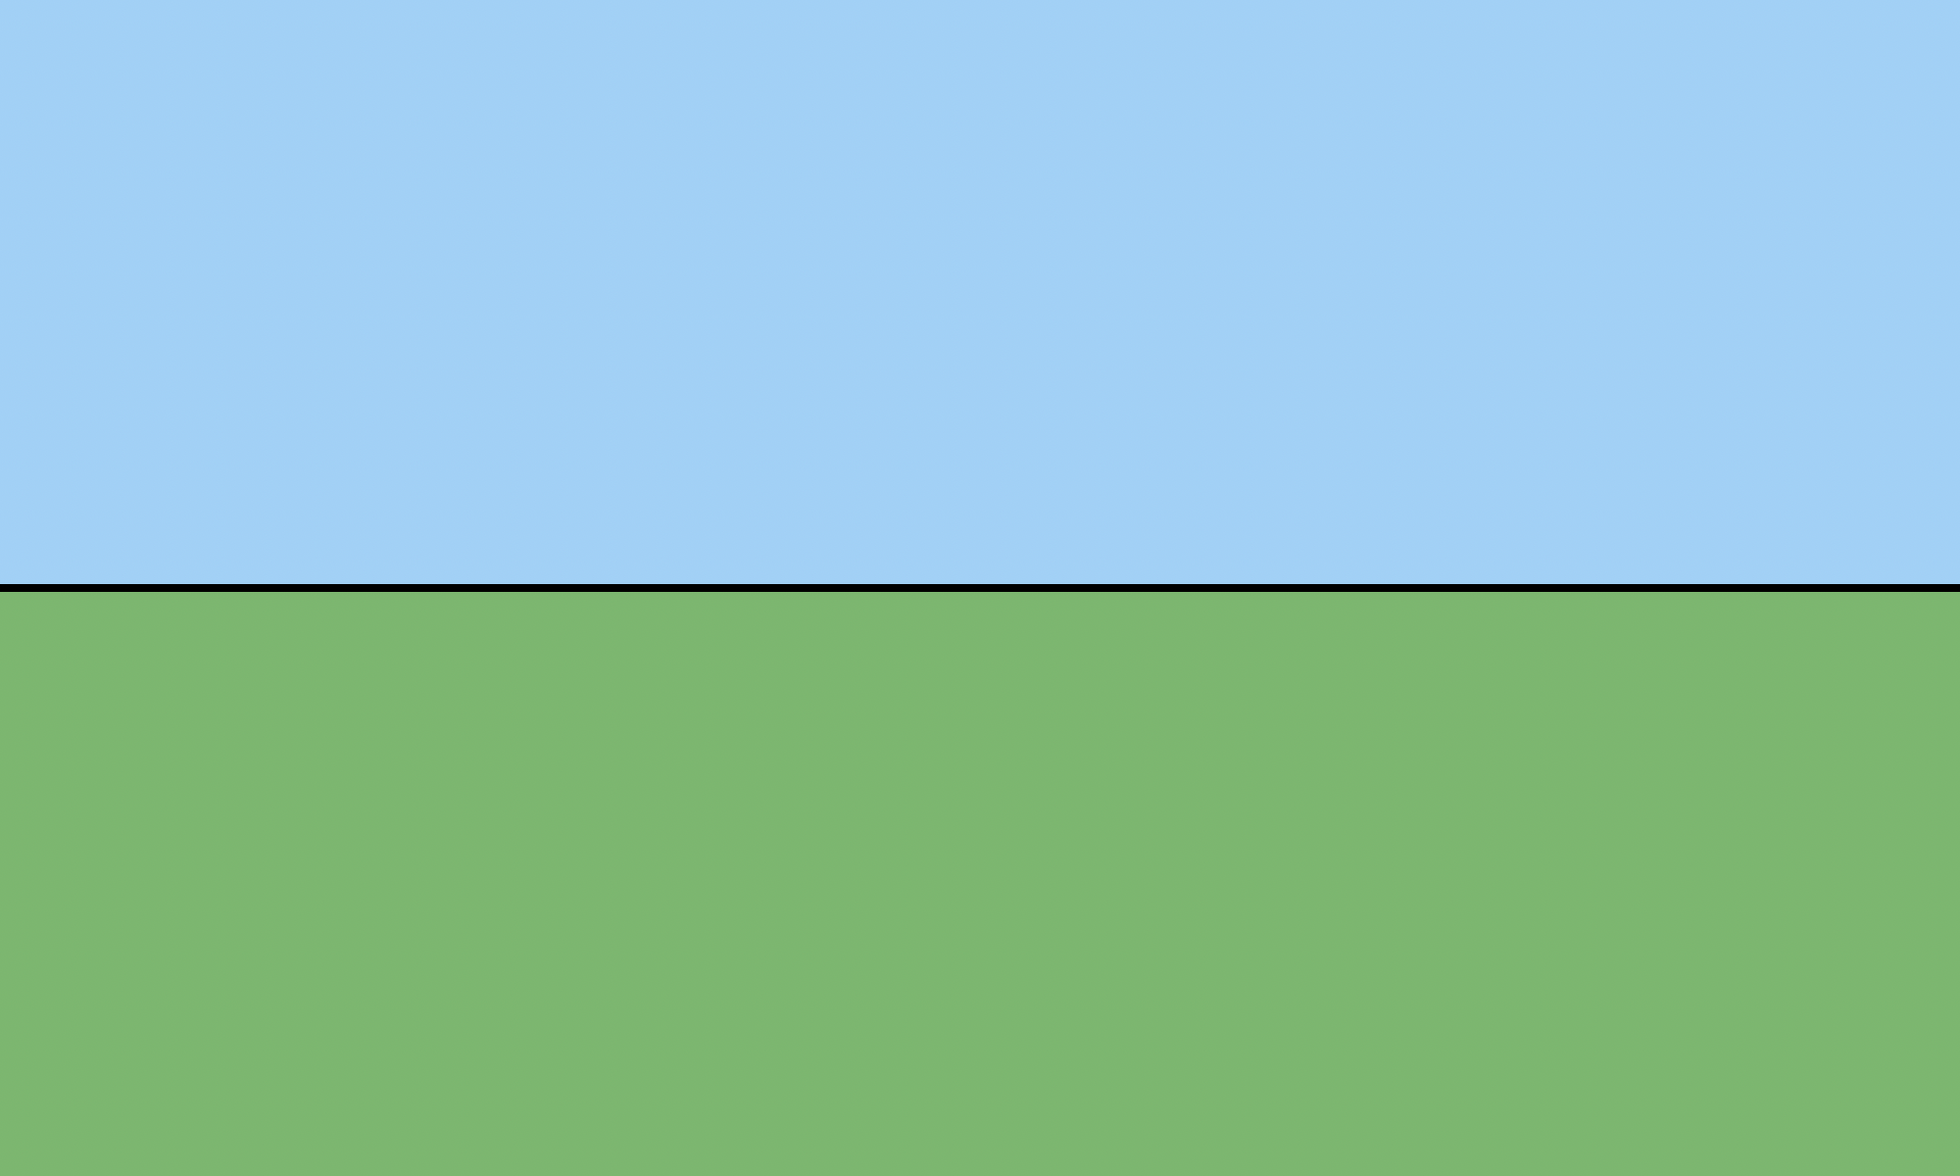
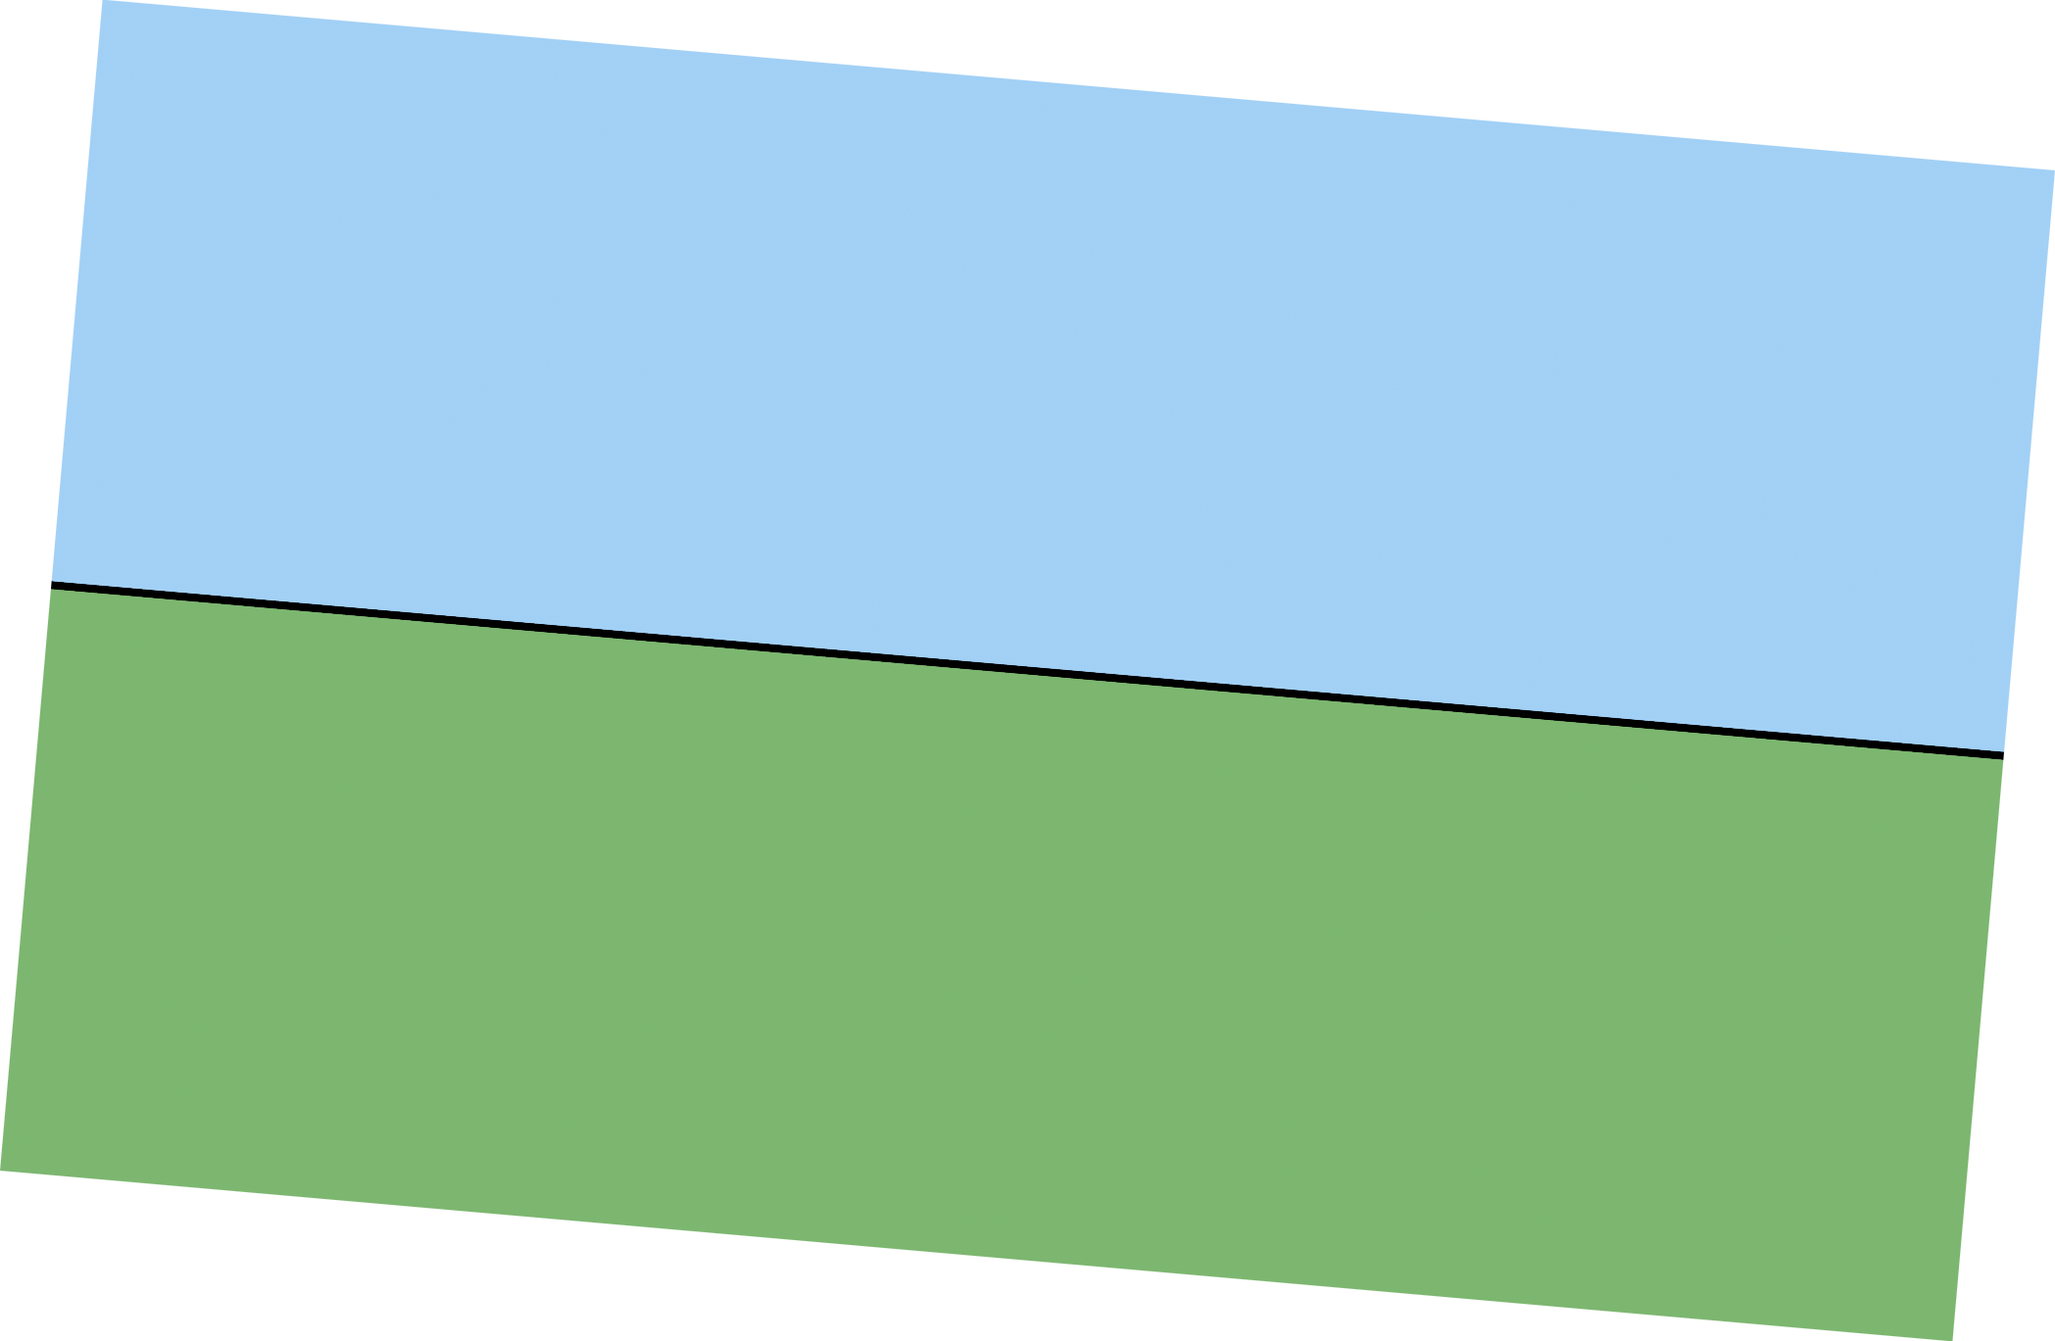
fix vision mode runtime stability

Changed region(s): [[0.0, 0.0, 1.0, 1.0]]

diff --git a/swift-core/Sources/AppleIntelCore/VisionExtHandler.swift b/swift-core/Sources/AppleIntelCore/VisionExtHandler.swift
@@ -32,10 +32,6 @@ final class ContinuationResumer<Success: Sendable>: @unchecked Sendable {
     }
 }
 
-func configureVisionRequest(_ request: VNRequest) {
-    request.usesCPUOnly = true
-}
-
 struct VisionExtHandler: Sendable {
 
     private func loadImageData(base64: String?, path: String?) throws -> Data {
@@ -54,6 +50,13 @@ struct VisionExtHandler: Sendable {
         VNImageRequestHandler(data: data, options: [:])
     }
 
+    private func imageHandler(base64: String?, path: String?) throws -> VNImageRequestHandler {
+        if let p = path {
+            return VNImageRequestHandler(url: URL(fileURLWithPath: p), options: [:])
+        }
+        return imageHandler(data: try loadImageData(base64: base64, path: nil))
+    }
+
     private func loadModel(from path: String) throws -> MLModel {
         let url = URL(fileURLWithPath: path)
         if url.pathExtension == "mlmodelc" {
@@ -65,10 +68,9 @@ struct VisionExtHandler: Sendable {
 
     // ── 圖片分類：這張圖片裡有什麼？ ─────────────────────────────
     func classifyImage(base64: String? = nil, path: String? = nil) async throws -> [(label: String, confidence: Float)] {
-        let imageData = try loadImageData(base64: base64, path: path)
+        let handler = try imageHandler(base64: base64, path: path)
         return try await withCheckedThrowingContinuation { continuation in
             let resumer = ContinuationResumer(continuation)
-            let handler = VNImageRequestHandler(data: imageData, options: [:])
             let request = VNClassifyImageRequest { req, error in
                 if let error = error { resumer.resume(throwing: error); return }
                 let results = (req.results as? [VNClassificationObservation] ?? [])
@@ -77,7 +79,6 @@ struct VisionExtHandler: Sendable {
                     .map { (label: $0.identifier, confidence: $0.confidence) }
                 resumer.resume(returning: Array(results))
             }
-            configureVisionRequest(request)
             do { try handler.perform([request]) }
             catch { resumer.resume(throwing: error) }
         }
@@ -90,10 +91,9 @@ struct VisionExtHandler: Sendable {
     }
 
     func detectFaces(base64: String? = nil, path: String? = nil) async throws -> FaceResult {
-        let imageData = try loadImageData(base64: base64, path: path)
+        let handler = try imageHandler(base64: base64, path: path)
         return try await withCheckedThrowingContinuation { continuation in
             let resumer = ContinuationResumer(continuation)
-            let handler = VNImageRequestHandler(data: imageData, options: [:])
             let request = VNDetectFaceRectanglesRequest { req, error in
                 if let error = error { resumer.resume(throwing: error); return }
                 let observations = req.results as? [VNFaceObservation] ?? []
@@ -109,7 +109,6 @@ struct VisionExtHandler: Sendable {
                 }
                 resumer.resume(returning: FaceResult(count: faces.count, faces: faces))
             }
-            configureVisionRequest(request)
             do { try handler.perform([request]) }
             catch { resumer.resume(throwing: error) }
         }
@@ -122,10 +121,9 @@ struct VisionExtHandler: Sendable {
     }
 
     func detectBarcodes(base64: String? = nil, path: String? = nil) async throws -> [BarcodeResult] {
-        let imageData = try loadImageData(base64: base64, path: path)
+        let handler = try imageHandler(base64: base64, path: path)
         return try await withCheckedThrowingContinuation { continuation in
             let resumer = ContinuationResumer(continuation)
-            let handler = imageHandler(data: imageData)
             let request = VNDetectBarcodesRequest { req, error in
                 if let error = error { resumer.resume(throwing: error); return }
                 let results = (req.results as? [VNBarcodeObservation] ?? [])
@@ -138,7 +136,6 @@ struct VisionExtHandler: Sendable {
                     }
                 resumer.resume(returning: results)
             }
-            configureVisionRequest(request)
             do { try handler.perform([request]) }
             catch { resumer.resume(throwing: error) }
         }
@@ -167,7 +164,6 @@ struct VisionExtHandler: Sendable {
                 }
                 resumer.resume(returning: result)
             }
-            configureVisionRequest(request)
             do { try handler.perform([request]) }
             catch { resumer.resume(throwing: error) }
         }
@@ -208,7 +204,6 @@ struct VisionExtHandler: Sendable {
                 resumer.resume(returning: results)
             }
             request.imageCropAndScaleOption = .scaleFill
-            configureVisionRequest(request)
             do { try handler.perform([request]) }
             catch { resumer.resume(throwing: error) }
         }
@@ -222,10 +217,9 @@ struct VisionExtHandler: Sendable {
     }
 
     func detectContours(base64: String? = nil, path: String? = nil) async throws -> ContourResult {
-        let imageData = try loadImageData(base64: base64, path: path)
+        let handler = try imageHandler(base64: base64, path: path)
         return try await withCheckedThrowingContinuation { continuation in
             let resumer = ContinuationResumer(continuation)
-            let handler = imageHandler(data: imageData)
             let request = VNDetectContoursRequest { req, error in
                 if let error = error { resumer.resume(throwing: error); return }
                 guard let obs = (req.results as? [VNContoursObservation])?.first else {
@@ -250,7 +244,6 @@ struct VisionExtHandler: Sendable {
             request.contrastAdjustment = 1.0
             request.detectsDarkOnLight = true
             request.maximumImageDimension = 1024
-            configureVisionRequest(request)
             do { try handler.perform([request]) }
             catch { resumer.resume(throwing: error) }
         }
@@ -263,10 +256,9 @@ struct VisionExtHandler: Sendable {
     }
 
     func detectTextRegions(base64: String? = nil, path: String? = nil) async throws -> TextRegionResult {
-        let imageData = try loadImageData(base64: base64, path: path)
+        let handler = try imageHandler(base64: base64, path: path)
         return try await withCheckedThrowingContinuation { continuation in
             let resumer = ContinuationResumer(continuation)
-            let handler = imageHandler(data: imageData)
             let request = VNDetectTextRectanglesRequest { req, error in
                 if let error = error { resumer.resume(throwing: error); return }
                 let observations = req.results as? [VNTextObservation] ?? []
@@ -283,7 +275,6 @@ struct VisionExtHandler: Sendable {
                 resumer.resume(returning: TextRegionResult(count: regions.count, regions: regions))
             }
             request.reportCharacterBoxes = true
-            configureVisionRequest(request)
             do { try handler.perform([request]) }
             catch { resumer.resume(throwing: error) }
         }
@@ -296,10 +287,9 @@ struct VisionExtHandler: Sendable {
     }
 
     func detectFaceLandmarks(base64: String? = nil, path: String? = nil) async throws -> FaceLandmarkResult {
-        let imageData = try loadImageData(base64: base64, path: path)
+        let handler = try imageHandler(base64: base64, path: path)
         return try await withCheckedThrowingContinuation { continuation in
             let resumer = ContinuationResumer(continuation)
-            let handler = imageHandler(data: imageData)
             let request = VNDetectFaceLandmarksRequest { req, error in
                 if let error = error { resumer.resume(throwing: error); return }
                 let observations = req.results as? [VNFaceObservation] ?? []
@@ -323,7 +313,6 @@ struct VisionExtHandler: Sendable {
                 }
                 resumer.resume(returning: FaceLandmarkResult(count: summaries.count, summaries: summaries))
             }
-            configureVisionRequest(request)
             do { try handler.perform([request]) }
             catch { resumer.resume(throwing: error) }
         }
@@ -336,10 +325,9 @@ struct VisionExtHandler: Sendable {
     }
 
     func detectHumanBodies(base64: String? = nil, path: String? = nil, upperBodyOnly: Bool = false) async throws -> HumanBodyResult {
-        let imageData = try loadImageData(base64: base64, path: path)
+        let handler = try imageHandler(base64: base64, path: path)
         return try await withCheckedThrowingContinuation { continuation in
             let resumer = ContinuationResumer(continuation)
-            let handler = imageHandler(data: imageData)
             let request = VNDetectHumanRectanglesRequest { req, error in
                 if let error = error { resumer.resume(throwing: error); return }
                 let observations = req.results as? [VNHumanObservation] ?? []
@@ -356,7 +344,6 @@ struct VisionExtHandler: Sendable {
                 resumer.resume(returning: HumanBodyResult(count: bodies.count, bodies: bodies))
             }
             request.upperBodyOnly = upperBodyOnly
-            configureVisionRequest(request)
             do { try handler.perform([request]) }
             catch { resumer.resume(throwing: error) }
         }
@@ -384,7 +371,6 @@ struct VisionExtHandler: Sendable {
                     isUtility: obs.isUtility
                 ))
             }
-            configureVisionRequest(request)
             do { try handler.perform([request]) }
             catch { resumer.resume(throwing: error) }
         }
@@ -408,7 +394,6 @@ struct VisionExtHandler: Sendable {
                     description: "偵測到 \(count) 個前景物件實例（可個別產生去背遮罩）"
                 ))
             }
-            configureVisionRequest(request)
             do { try handler.perform([request]) }
             catch { resumer.resume(throwing: error) }
         }
@@ -442,7 +427,6 @@ struct VisionExtHandler: Sendable {
                     description: "光流場 \(w)×\(h) 像素，每像素含 (dx,dy) 移動向量（2 通道 float32）"
                 ))
             }
-            configureVisionRequest(request)
             do { try handler.perform([request]) }
             catch { resumer.resume(throwing: error) }
         }
@@ -455,10 +439,9 @@ struct VisionExtHandler: Sendable {
     }
 
     func detectHorizon(base64: String? = nil, path: String? = nil) async throws -> HorizonResult {
-        let imageData = try loadImageData(base64: base64, path: path)
+        let handler = try imageHandler(base64: base64, path: path)
         return try await withCheckedThrowingContinuation { continuation in
             let resumer = ContinuationResumer(continuation)
-            let handler = imageHandler(data: imageData)
             let request = VNDetectHorizonRequest { req, error in
                 if let error = error { resumer.resume(throwing: error); return }
                 guard let obs = (req.results as? [VNHorizonObservation])?.first else {
@@ -472,7 +455,6 @@ struct VisionExtHandler: Sendable {
                 )
                 resumer.resume(returning: HorizonResult(angle: Double(obs.angle), transform: transform))
             }
-            configureVisionRequest(request)
             do { try handler.perform([request]) }
             catch { resumer.resume(throwing: error) }
         }

diff --git a/swift-core/Sources/AppleIntelCore/VisionPoseHandler.swift b/swift-core/Sources/AppleIntelCore/VisionPoseHandler.swift
@@ -8,8 +8,7 @@ import simd
 struct VisionPoseHandler: Sendable {
 
     private func imageHandler(path: String) throws -> VNImageRequestHandler {
-        let data = try Data(contentsOf: URL(fileURLWithPath: path))
-        return VNImageRequestHandler(data: data, options: [:])
+        VNImageRequestHandler(url: URL(fileURLWithPath: path), options: [:])
     }
 
     // ── 人體姿態偵測（Body Pose）────────────────────────────
@@ -46,7 +45,6 @@ struct VisionPoseHandler: Sendable {
                     }
                     resumer.resume(returning: results)
                 }
-                configureVisionRequest(request)
                 try handler.perform([request])
             } catch { resumer.resume(throwing: error) }
         }
@@ -87,7 +85,6 @@ struct VisionPoseHandler: Sendable {
                     resumer.resume(returning: results)
                 }
                 request.maximumHandCount = 2
-                configureVisionRequest(request)
                 try handler.perform([request])
             } catch { resumer.resume(throwing: error) }
         }
@@ -118,7 +115,6 @@ struct VisionPoseHandler: Sendable {
                     }
                     resumer.resume(returning: results)
                 }
-                configureVisionRequest(request)
                 try handler.perform([request])
             } catch { resumer.resume(throwing: error) }
         }
@@ -150,7 +146,6 @@ struct VisionPoseHandler: Sendable {
                     resumer.resume(returning: results)
                 }
                 request.maximumObservations = 10
-                configureVisionRequest(request)
                 try handler.perform([request])
             } catch { resumer.resume(throwing: error) }
         }
@@ -175,7 +170,6 @@ struct VisionPoseHandler: Sendable {
                     }
                     resumer.resume(returning: regions.joined(separator: "；"))
                 }
-                configureVisionRequest(request)
                 try handler.perform([request])
             } catch { resumer.resume(throwing: error) }
         }
@@ -200,7 +194,6 @@ struct VisionPoseHandler: Sendable {
                     resumer.resume(returning: "偵測到人物，遮罩尺寸：\(width)×\(height) 像素")
                 }
                 request.qualityLevel = .balanced
-                configureVisionRequest(request)
                 try handler.perform([request])
             } catch { resumer.resume(throwing: error) }
         }
@@ -221,7 +214,6 @@ struct VisionPoseHandler: Sendable {
                     let bb = obs.boundingBox
                     resumer.resume(returning: String(format: "偵測到文件，位置(%.2f,%.2f) 大小(%.2fx%.2f) 信心%.0f%%", bb.origin.x, bb.origin.y, bb.size.width, bb.size.height, obs.confidence * 100))
                 }
-                configureVisionRequest(request)
                 try handler.perform([request])
             } catch { resumer.resume(throwing: error) }
         }
@@ -229,9 +221,39 @@ struct VisionPoseHandler: Sendable {
 
     // ── 3D 人體姿態偵測（macOS 14+）────────────────────────────
     func detectBodyPose3D(imagePath: String) async throws -> [[String: String]] {
-        throw HandlerError.unavailable(
-            "detect_body_pose_3d 暫時停用：Apple Vision 的 VNDetectHumanBodyPose3DRequest 在此 macOS/Vision runtime 會丟出不可由 Swift do/catch 捕捉的 Objective-C exception，為避免 Swift Core process 崩潰，請改用 mode=\"body_pose\"。"
-        )
+        let joints: [(VNHumanBodyPose3DObservation.JointName, String)] = [
+            (.centerHead, "頭中心"), (.topHead, "頭頂"),
+            (.leftShoulder, "左肩"), (.rightShoulder, "右肩"),
+            (.leftElbow, "左手肘"), (.rightElbow, "右手肘"),
+            (.leftWrist, "左手腕"), (.rightWrist, "右手腕"),
+            (.root, "重心"),
+            (.leftHip, "左髖"), (.rightHip, "右髖"),
+            (.leftKnee, "左膝"), (.rightKnee, "右膝"),
+            (.leftAnkle, "左腳踝"), (.rightAnkle, "右腳踝")
+        ]
+        return try await withCheckedThrowingContinuation { continuation in
+            let resumer = ContinuationResumer(continuation)
+            do {
+                let handler = try imageHandler(path: imagePath)
+                let request = VNDetectHumanBodyPose3DRequest { req, error in
+                    if let error = error { resumer.resume(throwing: error); return }
+                    let observations = req.results as? [VNHumanBodyPose3DObservation] ?? []
+                    var results: [[String: String]] = []
+                    for (i, obs) in observations.enumerated() {
+                        var person: [String: String] = ["person": "\(i + 1)"]
+                        for (jointName, label) in joints {
+                            if let point = try? obs.recognizedPoint(jointName) {
+                                let col = point.position.columns.3
+                                person[label] = String(format: "(%.2f,%.2f,%.2f)", col.x, col.y, col.z)
+                            }
+                        }
+                        results.append(person)
+                    }
+                    resumer.resume(returning: results)
+                }
+                try handler.perform([request])
+            } catch { resumer.resume(throwing: error) }
+        }
     }
 
     // ── 軌跡偵測（視訊）：追蹤拋物線物體（macOS 11+）──────────

diff --git a/swift-core/Sources/AppleIntelCore/OCRHandler.swift b/swift-core/Sources/AppleIntelCore/OCRHandler.swift
@@ -14,14 +14,16 @@ struct OCRHandler: Sendable {
 
     func recognizeText(fromPath path: String) async throws -> String {
         let url = URL(fileURLWithPath: path)
-        let data = try Data(contentsOf: url)
-        return try await recognizeText(from: data)
+        return try await recognizeText(from: VNImageRequestHandler(url: url, options: [:]))
     }
 
     private func recognizeText(from imageData: Data) async throws -> String {
+        return try await recognizeText(from: VNImageRequestHandler(data: imageData, options: [:]))
+    }
+
+    private func recognizeText(from requestHandler: VNImageRequestHandler) async throws -> String {
         return try await withCheckedThrowingContinuation { continuation in
             let resumer = ContinuationResumer(continuation)
-            let requestHandler = VNImageRequestHandler(data: imageData, options: [:])
             let request = VNRecognizeTextRequest { request, error in
                 if let error = error {
                     resumer.resume(throwing: error)
@@ -36,7 +38,6 @@ struct OCRHandler: Sendable {
             request.recognitionLevel = .accurate
             request.usesLanguageCorrection = true
             request.recognitionLanguages = ["zh-Hant", "zh-Hans", "en-US", "ja", "ko"]
-            configureVisionRequest(request)
 
             do {
                 try requestHandler.perform([request])

diff --git a/mcp-server/server.py b/mcp-server/server.py
@@ -132,6 +132,7 @@ _VISION_MODES: dict[str, str] = {
     "segment_foreground": "segment_foreground_instances",
     "aesthetics": "score_image_aesthetics",
     "body_pose": "detect_body_pose",
+    "body_pose_3d": "detect_body_pose_3d",
     "hand_pose": "detect_hand_pose",
     "animals": "recognize_animals",
 }
